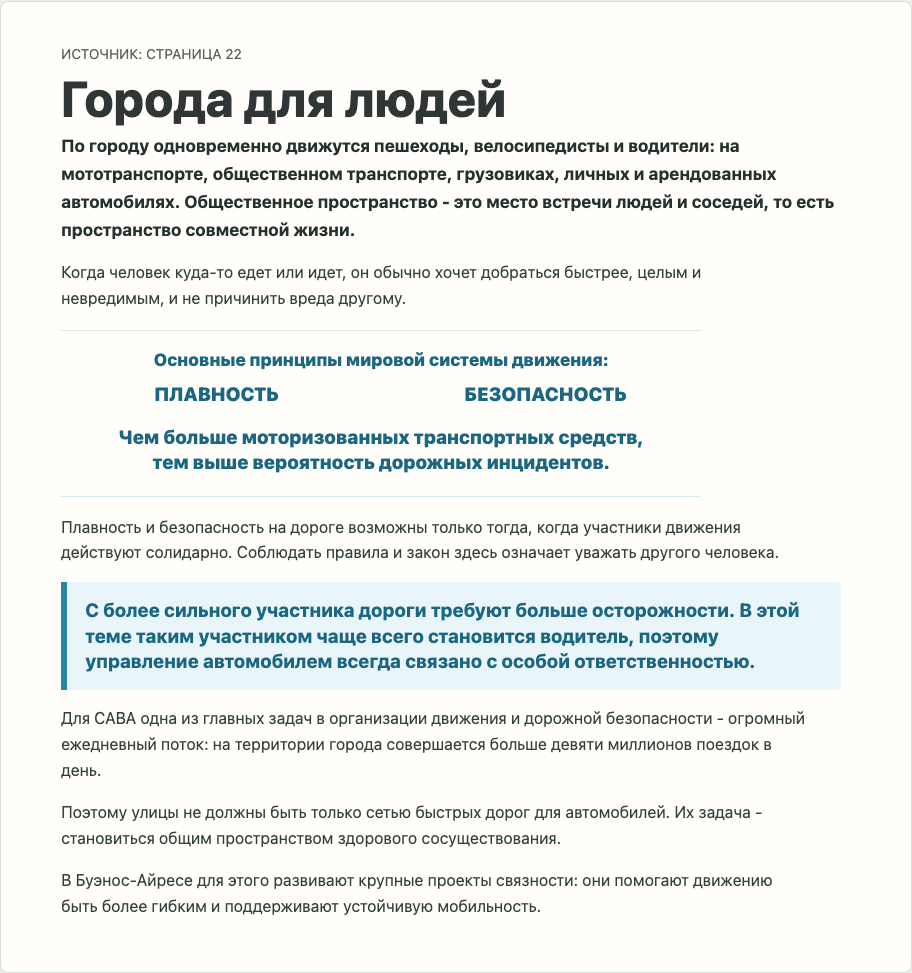
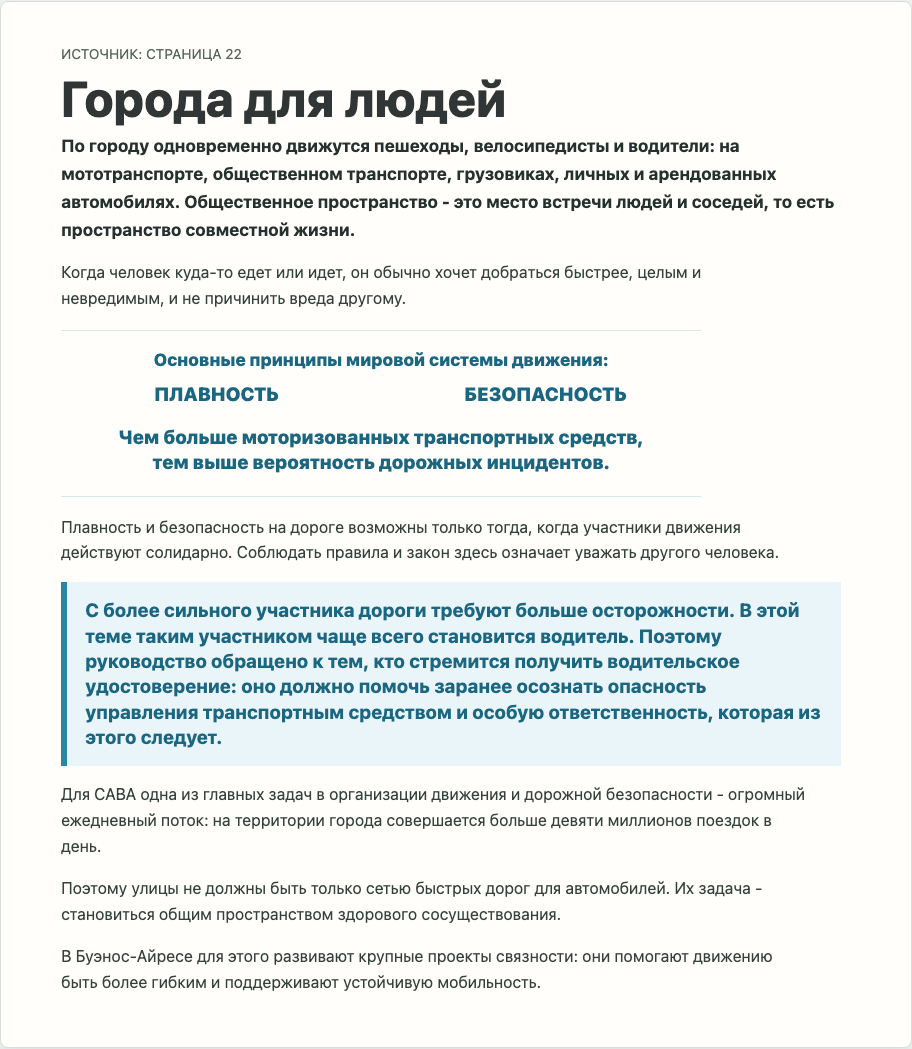
Preserve Chapter 1 license responsibility sentence

Changed region(s): [[0.0614, 0.0308, 0.9211, 0.9558]]

diff --git a/src/data/manual-sections/ch1-cities-for-people.ts b/src/data/manual-sections/ch1-cities-for-people.ts
@@ -74,9 +74,9 @@ export const ch1CitiesForPeopleSection: ManualGuideSectionContent = {
       id: "stronger-road-user-care",
       kind: "callout",
       sourceTextEs:
-        "Un antiguo principio legal indica que se le debe pedir más cuidado al más fuerte... a quien conduce.",
+        "Un antiguo principio legal indica que se le debe pedir más cuidado al más fuerte... a quien conduce. Por eso, este manual está destinado a aquellas personas que aspiran a obtener su licencia de conducir: para que tomen conciencia de la peligrosidad que implica conducir un vehículo y de la especial responsabilidad que ello conlleva.",
       textRu:
-        "С более сильного участника дороги требуют больше осторожности. В этой теме таким участником чаще всего становится водитель, поэтому управление автомобилем всегда связано с особой ответственностью."
+        "С более сильного участника дороги требуют больше осторожности. В этой теме таким участником чаще всего становится водитель. Поэтому руководство обращено к тем, кто стремится получить водительское удостоверение: оно должно помочь заранее осознать опасность управления транспортным средством и особую ответственность, которая из этого следует."
     },
     {
       id: "nine-million-trips",

diff --git a/specs/030-manual-chapters-1-2/tasks.md b/specs/030-manual-chapters-1-2/tasks.md
@@ -81,6 +81,7 @@ For each section key:
 - [x] Generated source crop evidence at `content/validation/manual-guide/ch1-cities-for-people/page-022-cities-for-people-source-crop.jpg` and committed rendered desktop/mobile evidence screenshots under the same directory.
 - [x] Added focused content and e2e tests for route activation, implemented-vs-pending state, source coverage, no page-021/page-043/page-056 routes, no unrelated section implementation, selectable principle text, responsive/no-overflow checks, and no visible Spanish in the rendered section.
 - [x] Finalized implementation commit/push and opened ready PR metadata for this slice; implementation content head before this PR-metadata evidence update is `9ec2a7e39d0316caf16a9793f090635d5d5cff9f`.
+- [x] Addressed PR #177 P2 review thread `PRRT_kwDOSX65IM6F14fY` / `discussion_r3328114426` by preserving the omitted source page 22 block-05 sentence about license applicants understanding the danger of driving and the special responsibility it entails.
 
 ## Review Requirements
 
@@ -135,6 +136,7 @@ For each section key:
 - Implementation Agent decision for `ch1-cities-for-people`: source page `22` contains one substantive source-`Índice` website section; source PDF page `21` remains divider-only and is not included in this PR as content, route, module, placeholder, or screenshot target.
 - Implementation Agent decision for `ch1-cities-for-people`: the page has no source pictogram/photo/table requiring runtime image artwork. The meaningful visual relationship is the centered `FLUIDEZ / SEGURIDAD` typographic pair, so the learner view recreates it as selectable Russian DOM text (`ПЛАВНОСТЬ` / `БЕЗОПАСНОСТЬ`) with source-teal emphasis and source-region evidence.
 - Implementation Agent decision for `ch1-cities-for-people`: the source page crop is committed only as internal reference evidence under `content/validation/manual-guide/ch1-cities-for-people/`; the learner UI does not render the Spanish crop, full source page raster, broad masks, page chrome, or page marker.
+- Implementation Agent review-fix decision for PR #177 P2 `PRRT_kwDOSX65IM6F14fY` / `discussion_r3328114426`: keep the omitted source page 22 block-05 license-applicant sentence inside the existing stronger-road-user callout, immediately after the stronger-user/driver responsibility idea, because it is the continuation of that source paragraph and does not create a new section or visual block.
 
 ### Known Issues
 
@@ -186,6 +188,9 @@ For each section key:
 - Docker runtime smoke passed for `ch1-cities-for-people` with isolated project/port: `COMPOSE_PROJECT_NAME=cabadrive030cities CABADRIVE_HOST_PORT=5195 make build` built the image and reran content validation/build inside Docker; `COMPOSE_PROJECT_NAME=cabadrive030cities CABADRIVE_HOST_PORT=5195 make up` started the container; `curl -fsS http://127.0.0.1:5195/` fetched the served shell; a Playwright smoke of `http://127.0.0.1:5195/#manual-section-ch1-cities-for-people` confirmed the route hash, `Города для людей`, selectable `ПЛАВНОСТЬБЕЗОПАСНОСТЬ`, and no visible Spanish; `COMPOSE_PROJECT_NAME=cabadrive030cities CABADRIVE_HOST_PORT=5195 make down` stopped the runtime; `COMPOSE_PROJECT_NAME=cabadrive030cities CABADRIVE_HOST_PORT=5195 docker compose ps --all` showed no remaining containers.
 - Final local hygiene after evidence updates passed for `ch1-cities-for-people`: `git diff --check`, `node scripts/check-feature-memory.mjs --worktree`, and `node scripts/manual-guide-source-fidelity.mjs`.
 - Ready PR opened for `ch1-cities-for-people`: PR #177, `https://github.com/cucumberfalse/cabadrive/pull/177`, branch `codex/030-ch1-cities-for-people`, implementation content head `9ec2a7e39d0316caf16a9793f090635d5d5cff9f`, draft status `false`. Final handoff head is the later process-memory evidence commit reported by the Implementation Agent after push.
+- PR #177 P2 review-fix source inspection: GitHub review thread `PRRT_kwDOSX65IM6F14fY` / `discussion_r3328114426` was open and not outdated at `src/data/manual-sections/ch1-cities-for-people.ts:79`; `manual.ru.json` page `22` block 05/source paragraph contains the omitted sentence beginning `Por eso, este manual está destinado...`.
+- PR #177 P2 review-fix implementation: updated `src/data/manual-sections/ch1-cities-for-people.ts` callout `stronger-road-user-care` to include the license-applicant/danger/responsibility sentence in Russian, updated `tests/content-manual-guide-chapters.test.mjs` content assertions, refreshed the module SHA in `section-registry.chapters-1-2.json`, and regenerated desktop/mobile screenshots because callout text layout changed.
+- PR #177 P2 review-fix verification passed: `node scripts/manual-guide-source-fidelity.mjs`; `node --test tests/content-manual-guide-chapters.test.mjs` (`17/17`); `pnpm run build`; `pnpm exec playwright test tests/e2e/app.spec.ts -g "Manual guide exposes Chapter 1 cities"` (`2/2`); `git diff --check`.
 
 ### Cycle PR Set
 
@@ -194,7 +199,7 @@ For each section key:
 | section-requirement-correction | Architect memory correction from source-PDF-page slicing to website-section slicing, carried by this shared correction branch | `codex/030-section-requirement-correction` | PR #176, `https://github.com/cucumberfalse/cabadrive/pull/176` | post-P1 implementation head to be reported by Implementation Agent after commit/push; prior validated head `8a435c84166e4c001220ddc70624abaa8017c96b` is stale after current-head P1 `PRRT_kwDOSX65IM6F1edn` | P1 Scoring source-boundary fix implemented locally; final validation rerun pending after push | yes |
 | shared-section-prereq | Shared correction/prerequisite for section registry/routes/checker/style, no section content | `codex/030-section-requirement-correction` | PR #176, `https://github.com/cucumberfalse/cabadrive/pull/176` | post-P1 implementation head to be reported by Implementation Agent after commit/push | Scoring source-boundary registry/test fix implemented locally; review-thread/final-validation state pending Orchestrator routing | yes |
 | PR-175-page-021-disposition | Existing PR #175 / `page-021` divider-only implementation | `codex/030-page-021` | PR #175, `https://github.com/cucumberfalse/cabadrive/pull/175` | `1e8334676ba26d867194dcc9b884758465837959` | closed unmerged, superseded by corrected section-based contract | no |
-| `ch1-cities-for-people` | Implement website section page `Ciudades para las personas` / `Города для людей` with source page `22` evidence and selectable `ПЛАВНОСТЬ / БЕЗОПАСНОСТЬ` visual | `codex/030-ch1-cities-for-people` | PR #177, `https://github.com/cucumberfalse/cabadrive/pull/177` | implementation content head `9ec2a7e39d0316caf16a9793f090635d5d5cff9f`; final handoff head reported after process-memory evidence push | ready PR opened; focused checker/content/build/Playwright, full preflight, Docker runtime smoke, and diff hygiene passed | yes |
+| `ch1-cities-for-people` | Implement website section page `Ciudades para las personas` / `Города для людей` with source page `22` evidence and selectable `ПЛАВНОСТЬ / БЕЗОПАСНОСТЬ` visual | `codex/030-ch1-cities-for-people` | PR #177, `https://github.com/cucumberfalse/cabadrive/pull/177` | implementation content head `9ec2a7e39d0316caf16a9793f090635d5d5cff9f`; final review-fix handoff head reported after push | ready PR opened; P2 review fix implemented locally; focused checker/content/build/Playwright, full preflight, Docker runtime smoke, and diff hygiene passed | yes |
 | `ch1-sustainable-mobility` | Implement website section page `¿Qué es la movilidad sustentable?` | pending Orchestrator assignment | pending | pending | pending | yes |
 | `ch1-pedestrian-priority` | Implement website section page `Prioridad peatonal` | pending Orchestrator assignment | pending | pending | pending | yes |
 | `ch1-bicycle` | Implement website section page `Bicicleta` | pending Orchestrator assignment | pending | pending | pending | yes |
@@ -231,6 +236,7 @@ For each section key:
 
 - No unresolved Implementation Agent feedback for this shared correction/prerequisite pass.
 - No unresolved Implementation Agent feedback for the `ch1-cities-for-people` section slice at the time of local verification.
+- PR #177 P2 review thread `PRRT_kwDOSX65IM6F14fY` / `discussion_r3328114426` is safe for Orchestrator/Review routing to resolve after the review-fix commit is pushed and current-head checks complete.
 
 ## Architect Dispositions
 
